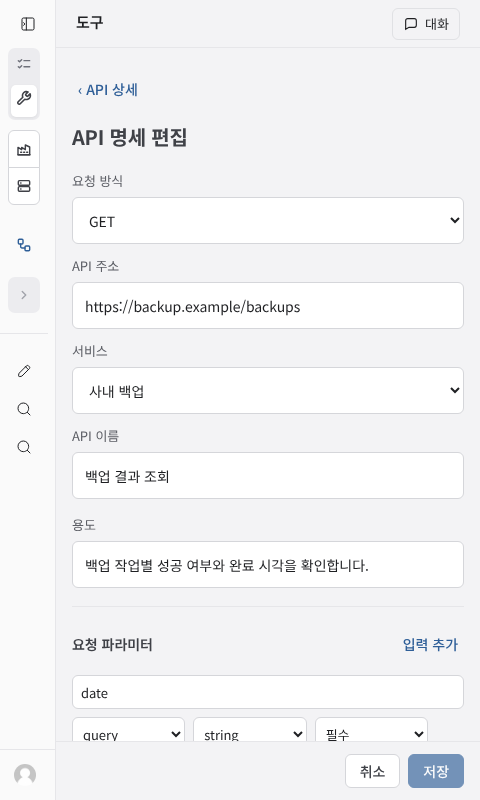
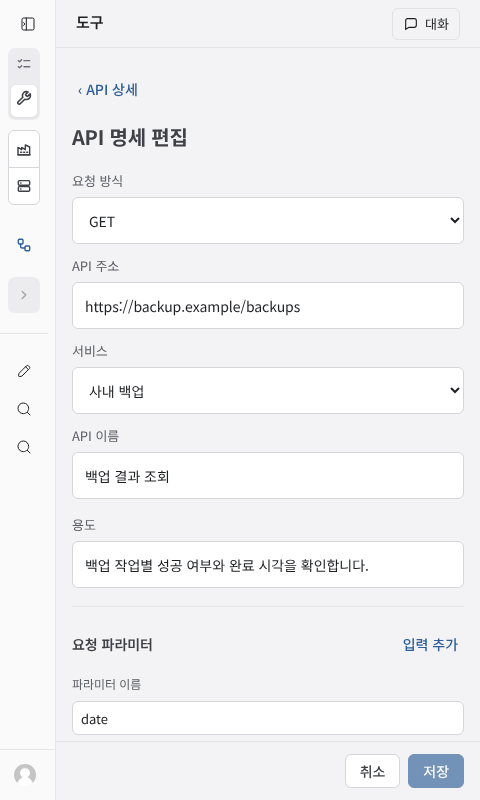
워크스페이스 2판 1단계: 좁은 폭에서 파라미터·결과 칸의 이름을 다시 보이기
PR #143 리뷰 지적: 내용 폭이 720px 아래면 열 제목을 숨기는데 칸마다 붙은
이름도 화면에서 숨겨져 있어 빈 칸이 무엇을 받는지 알 수 없었다. 목업 2판의
좁은 배치 CSS를 그대로 옮긴 탓이고, main의 제품은 칸마다 이름을 보여 줬다.

- 열 제목이 숨는 폭에서는 칸마다 이름을 입력칸 위에 보여 준다(편집·등록).
- 브라우저 시험: 1366px에서는 열 제목, 480px에서는 칸 이름이 보이는지 검사.
- TASK의 명세 밖 결정과 evals에 기록, 제품 캡처 여덟 장을 다시 찍었다.

검증(Linux 개발 환경, 정식으로 다시 빌드한 wheel): API 화면 브라우저 시험 7개,
작업 등록 1개, 배치 5개, Node 774개, 문서 점검 통과. 나머지 브라우저 시험
모듈과 묶음은 이 wheel로 다시 돌리지 않았다(GitHub CI에서 확인).

Claude-Session: https://claude.ai/code/session_016AkPEYjaWqRsyqm9qzq4Pe

Changed region(s): [[0.1562, 0.8438, 0.9062, 0.9375], [0.9375, 0.875, 0.9688, 0.9062]]

diff --git a/branding/ees/ui/ees-work-launcher.css b/branding/ees/ui/ees-work-launcher.css
@@ -2581,7 +2581,11 @@ body.ees-panel-resizing{cursor:col-resize;user-select:none;}
   #ees-work-designer [data-api-catalog] :is(.ew-api-thead,.ew-api-row) {grid-template-columns:56px minmax(0,1fr) 16px;}
   #ees-work-designer [data-api-catalog] :is(.ew-api-thead>span:nth-child(3),.ew-api-path) {display:none;}
   #ees-work-designer [data-api-catalog] :is(.ew-api-name strong,.ew-api-description) {white-space:normal;}
+  /* The column titles do not line up with wrapped controls, so each control shows its own name instead. */
   #ees-work-designer [data-api-catalog] .ew-api-map-head {display:none;}
+  #ees-work-designer [data-api-catalog] .ew-api-map {align-items:end;}
+  #ees-work-designer [data-api-catalog] .ew-api-map label>span {position:static;width:auto;height:auto;overflow:visible;clip-path:none;display:block;margin-bottom:2px;color:var(--ees-text-secondary);font-size:12px;line-height:18px;}
+  #ees-work-designer [data-api-catalog] .ew-api-map .ew-api-btn.remove {margin-bottom:3px;}
   #ees-work-designer [data-api-catalog] [data-map-kind=inputs] {grid-template-columns:repeat(3,minmax(0,1fr)) 28px;}
   #ees-work-designer [data-api-catalog] .ew-api-map[data-map-kind=inputs]>:nth-child(1) {grid-column:1 / -1;}
   #ees-work-designer [data-api-catalog] .ew-api-map[data-map-kind=inputs]>:nth-child(5) {grid-column:1 / -2;}

diff --git a/tests/test_ees_api_catalog_native.py b/tests/test_ees_api_catalog_native.py
@@ -202,6 +202,11 @@ class RegisteredApiNativeTests(IntegratedNativeCase):
               return {columns:[...document.querySelectorAll('[data-api-mapping]>div')].map(box), area, catalog:box(catalog),
                 foot:box(document.querySelector('.ew-api-foot')),
                 controls:[...document.querySelectorAll('.ew-api-map :is(input,select)')].map(e => e.getBoundingClientRect().width),
+                titles:[...document.querySelectorAll('.ew-api-map-head')].every(e => e.checkVisibility()),
+                names:[...document.querySelectorAll('.ew-api-map label>span')].map(e => {
+                  const {width, height, bottom} = e.getBoundingClientRect();
+                  return {text:e.textContent, shown:width > 8 && height > 8, above:bottom <= e.parentElement.querySelector('input,select').getBoundingClientRect().y + 1};
+                }),
                 overflow:document.documentElement.scrollWidth > innerWidth ||
                   [...catalog.querySelectorAll('*')].some(e => e.getClientRects().length && e.getBoundingClientRect().right > area.right + 1)};
             })()""")
@@ -214,6 +219,10 @@ class RegisteredApiNativeTests(IntegratedNativeCase):
         self.assertAlmostEqual(wide['foot']['bottom'], wide['area']['bottom'], delta=1)
         self.assertLessEqual(wide['catalog']['bottom'], wide['area']['bottom'] + 1)
         self.assertFalse(wide['overflow'])
+        # Column titles name the controls here, so the controls' own names are for assistive technology only.
+        self.assertTrue(wide['titles'])
+        self.assertEqual(len(wide['names']), 19)
+        self.assertFalse(any(name['shown'] for name in wide['names']), wide['names'])
         for width, height, overlay in ((1366, 768, False), (480, 800, True)):
             with self.subTest(width=width):
                 self.authoring_viewport(width, height, overlay=overlay)
@@ -223,6 +232,13 @@ class RegisteredApiNativeTests(IntegratedNativeCase):
                 self.assertGreater(narrow['columns'][1]['y'], narrow['columns'][0]['bottom'] - 1, narrow['columns'])
                 self.assertGreaterEqual(min(narrow['controls']), 56, narrow['controls'])
                 self.assertFalse(narrow['overflow'])
+                # Every control is named on screen: by the column titles, or by its own name once the lines wrap.
+                self.assertEqual(narrow['titles'], width == 1366)
+                for name in narrow['names']:
+                    self.assertTrue(name['text'].strip())
+                    self.assertEqual(name['shown'], width == 480, name)
+                    if width == 480:
+                        self.assertTrue(name['above'], name)
                 # The settings are longer than the work area; the save row stays flush with its bottom edge.
                 self.assertGreater(narrow['catalog']['bottom'], narrow['area']['bottom'])
                 self.assertAlmostEqual(narrow['foot']['bottom'], narrow['area']['bottom'], delta=1)

diff --git a/evals/figma-product-parity-20261111.md b/evals/figma-product-parity-20261111.md
@@ -127,4 +127,10 @@ PR의 최신 EES delivery 실행에서 `ees-work-browser-evidence-native-compose
   - **함께 찾은 것:** 1366px 창에서 주소를 잘못 넣고 저장하면 거절 이유가 설정 맨 끝(화면 밖)에 나와 아무 일도 없는 것처럼 보였다. 입력·결과 설정을 펼쳐 둔 1단계 변경으로 생긴 조건이다. 거절 이유를 저장 줄과 같은 묶음에 두어 스크롤 위치와 상관없이 보이게 했다.
[1 lines of base64/hex data omitted]
   - **GitHub CI:** 수정 전 커밋 `84fa122`의 [실행 562](https://github.com/knadalkim-a11y/team-agent-poc/actions/runs/43980674554)는 40개 작업 중 32개가 성공한 뒤 다음 푸시로 취소됐다. 실패한 시험은 없었다. 끝나지 못한 것은 Linux의 native-compose, Windows의 platform·contracts·native-contracts·restore-ees12, 배포 파일 준비다. 집계 작업이 취소를 실패로 표시한다. 저장 줄을 고친 커밋 `80b6efb`의 [실행 563](https://github.com/knadalkim-a11y/team-agent-poc/actions/runs/43982405213)은 Windows 작업을 포함해 성공으로 끝났다. 그 뒤의 커밋은 캡처와 기록만 바꾸며 결과는 PR에 있다.
-- **재발 방지:** 좁은 창에서 생긴 두 문제와 저장 줄 위치, 거절 이유가 보이는지는 브라우저 시험으로 막았다. 목업과 다른 점은 고칠 수 있는지 먼저 보고 남기라는 기준은 AGENTS.md에 이미 있어 새 규칙은 더하지 않았다. 표 바탕과 입력칸 높이는 이 스타일시트에서 id를 포함한 `:is()` 규칙이 우선순위를 올리는 데서 왔다. 지침에 넣을 일반 규칙으로 보기에는 사례가 이번 하나라서 반영하지 않았다.
+- **PR 리뷰 두 번째 지적(2026-11-17, 같은 PR):**
+  - **지적:** 내용 폭이 720px 아래면 파라미터·결과 줄의 열 제목을 숨기는데 칸마다 붙은 이름도 화면에서 숨겨져 있어, 빈 칸이 무엇을 받는지 알 수 없다는 내용이다. 480px 캡처에서 확인했고 맞았다. 편집과 등록 화면에 모두 해당한다.
+  - **원인:** 목업 2판이 좁은 배치에서 열 제목만 숨기고 칸 이름을 보여 주지 않는다. 그 CSS를 그대로 옮겼다. main의 제품은 칸마다 이름을 보여 주고 있었으므로 이번 변경으로 생긴 후퇴다. 처음 좁은 창을 볼 때는 값이 채워진 예시만 봐서 놓쳤다.
+  - **조치:** 열 제목이 숨는 폭에서는 칸마다 이름을 보여 준다. 목업과 다른 점이며 [계약의 명세 밖 결정](../docs/mockups/ees-work/TASK.md#workspace-product-step1-20261116)에 적었다. 목업은 고치지 않았다.
[1 lines of base64/hex data omitted]
+  - **GitHub CI:** 기록과 캡처만 바꾼 커밋 `e5ba42b`의 실행 564가 도는 중에 이 수정을 올렸다. 이 수정 커밋의 결과는 PR에 있다.
+- **재발 방지:** 좁은 창에서 생긴 문제들(눌린 칸, 저장 줄 위치, 보이지 않는 거절 이유와 칸 이름)은 브라우저 시험으로 막았다. 좁은 창은 값이 빈 상태에서도 무엇을 넣는지 알 수 있는지로 본다. 목업과 다른 점은 고칠 수 있는지 먼저 보고 남기라는 기준은 AGENTS.md에 이미 있어 새 규칙은 더하지 않았다. 표 바탕과 입력칸 높이는 이 스타일시트에서 id를 포함한 `:is()` 규칙이 우선순위를 올리는 데서 왔다. 지침에 넣을 일반 규칙으로 보기에는 사례가 이번 하나라서 반영하지 않았다.

diff --git a/docs/mockups/ees-work/TASK.md b/docs/mockups/ees-work/TASK.md
@@ -29,6 +29,7 @@
 - **명세 밖 결정:**
   - 서비스 명세 가져오기 화면의 기능 선택 줄에서도 방식별 색 바탕을 뺐다(방식 표시가 같은 부품이다).
   - 편집에서 저장이 거절된 이유는 저장 줄 바로 위에 함께 붙여 둔다. 목업에는 이 상태가 없다. 설정을 펼쳐 둔 탓에 좁은 창에서는 화면 끝에 나오는 문구가 보이지 않았기 때문이다.
+  - 내용 폭이 720px 아래면 파라미터·결과 줄의 열 제목을 숨기고 칸마다 이름을 보여 준다. 목업 2판은 좁은 배치에서 열 제목만 숨겨 칸의 이름이 화면에 없다(비교 조건인 1920px 밖이라 고정 캡처에는 없다). main의 제품은 칸마다 이름을 보여 주고 있었으므로 그 동작을 유지했다. 목업은 다음 판에서 맞춘다.
 - **열린 PR과의 관계:** [#142](https://github.com/knadalkim-a11y/team-agent-poc/pull/142)가 업무 절차 목록을 그리는 같은 함수의 가이드 표시 조건을 고친다. 이 작업은 main 기준이므로 #142가 먼저 병합되면 그 조건을 새 목록에 옮겨 충돌을 푼다.
 - **남은 표기:** 업무 절차 내용 화면(WS2)의 메뉴·탭 이름표에는 ‘워크플로우’가 남아 있다. 그 화면을 다룰 때 함께 바꾼다.
 - **검증:** 이 개발 환경에서 제품을 빌드해 띄우고 1920·1366·480 폭에서 확인했다. Windows·GitHub CI·사내 적용은 미실행이다. [기록](../../../evals/figma-product-parity-20261111.md#workspace-product-step1-20261116).
